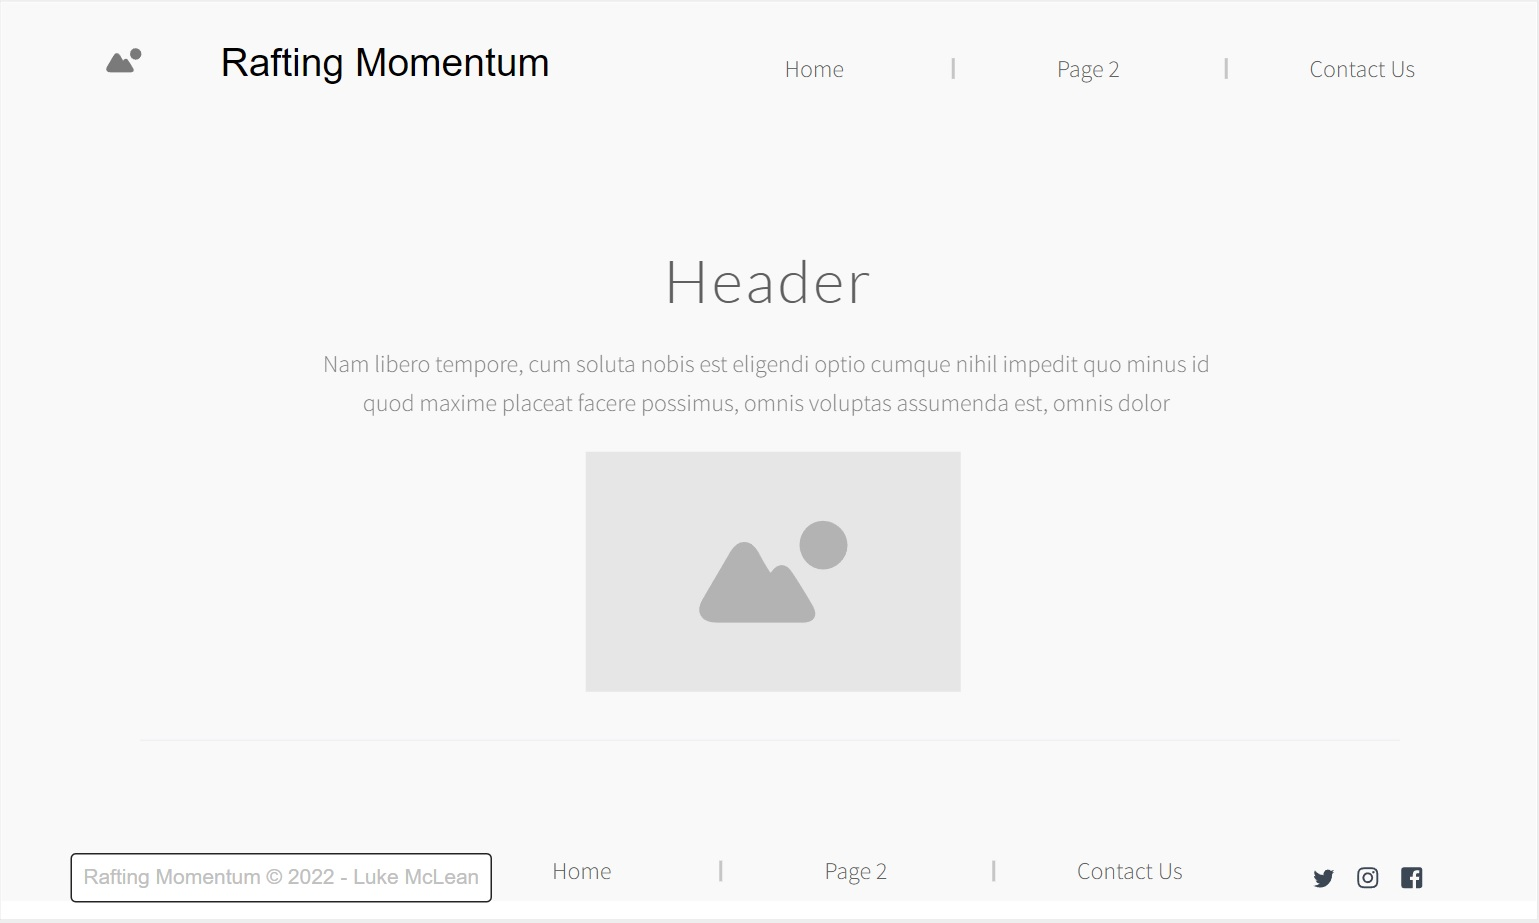
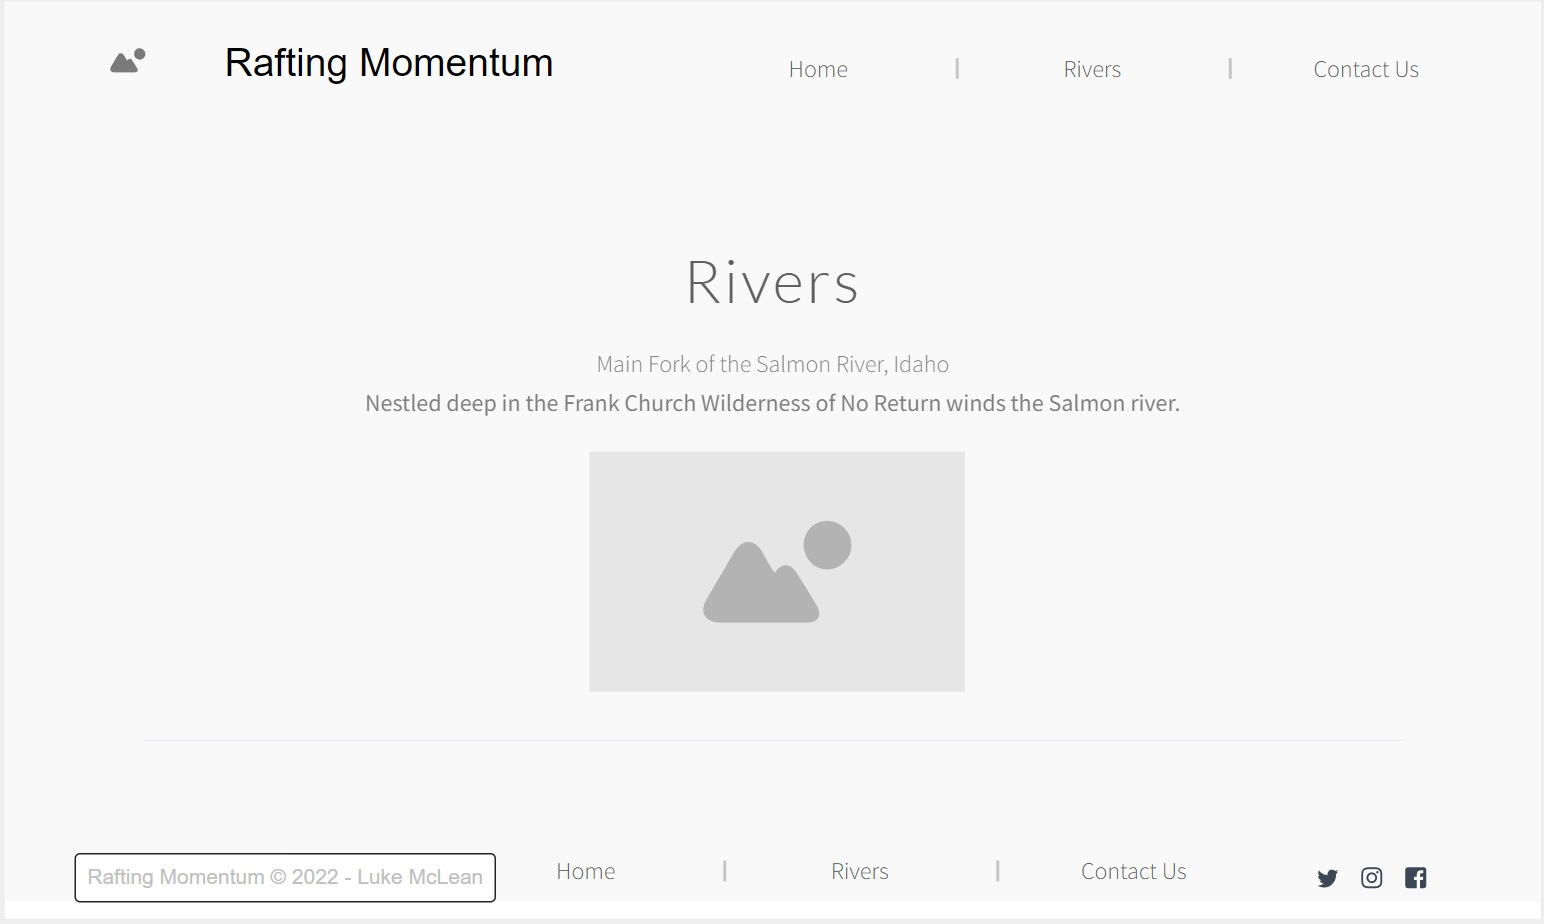
commit

diff --git a/wwr/site-plan-rafting.html b/wwr/site-plan-rafting.html
@@ -120,7 +120,7 @@
 
     <img src="https://byui-wdd.github.io/wdd130/rafting_images/wireframe_home.png" class="wireframe_home" alt="home page wireframe" />
 
-    <h3>[Page 2]</h3>
+    <h3>Rivers</h3>
 
     <img src="images/wireframe-page2.jpg" class="wireframe_page2" alt="page 2 wireframe">
   </main>
